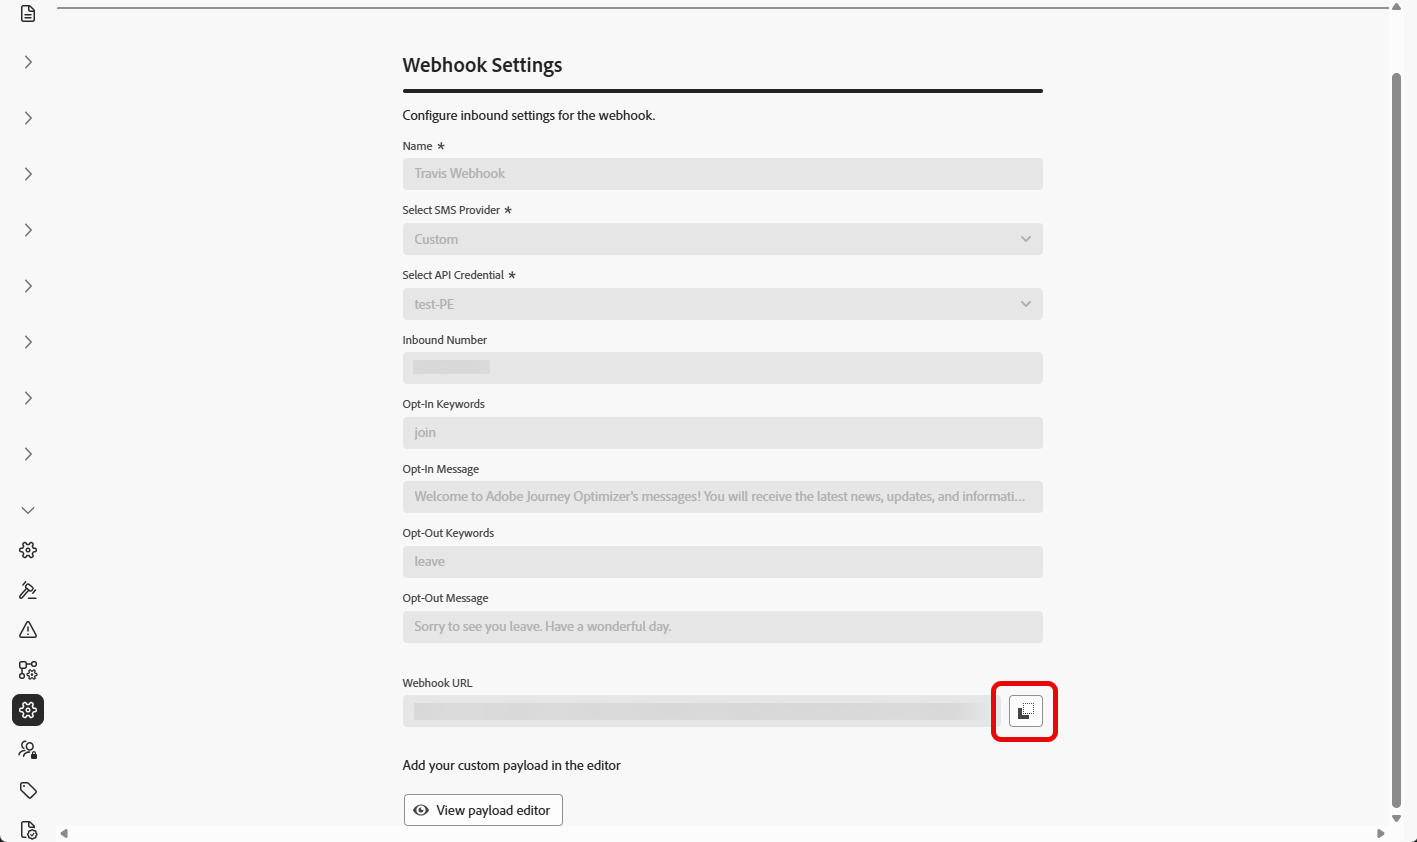
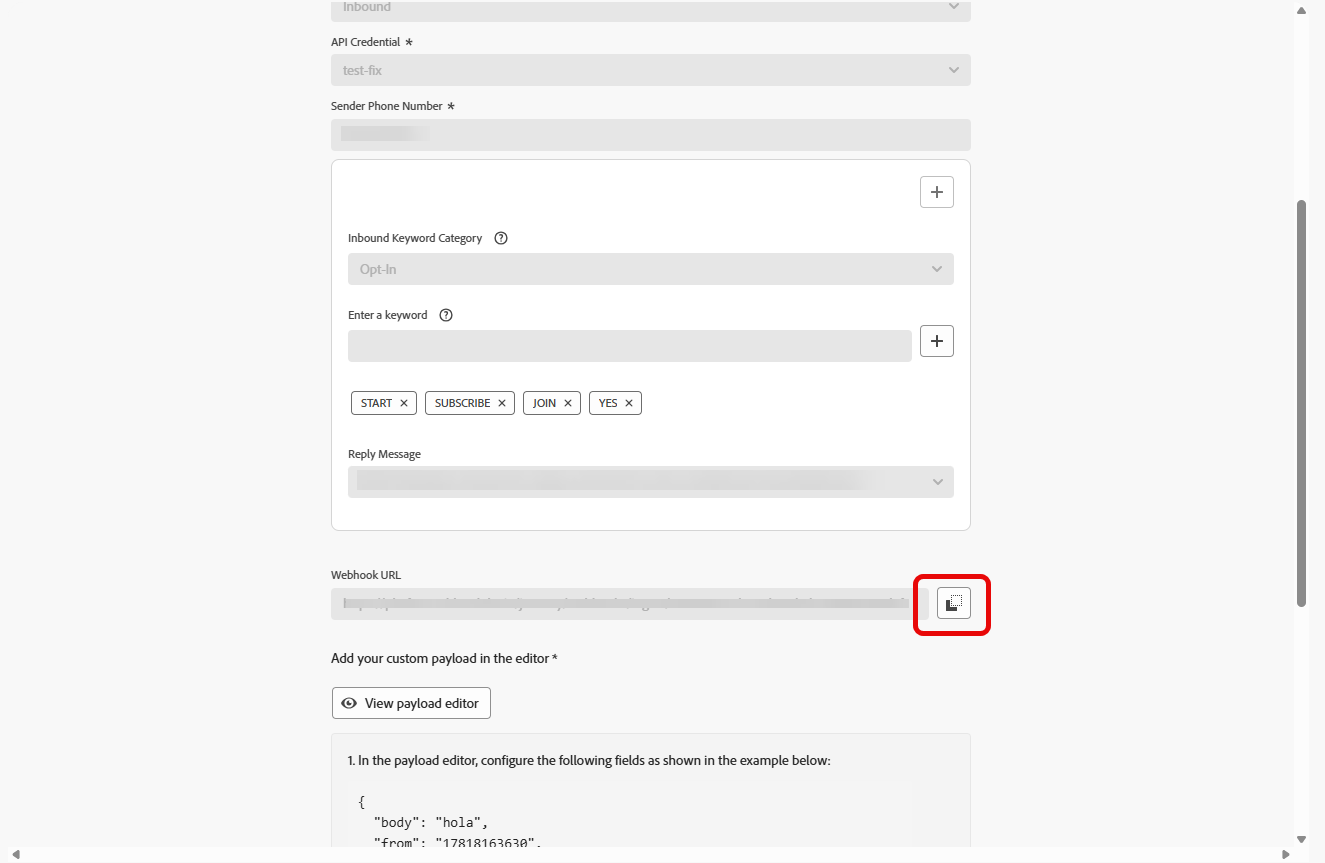
Update screens SMS webhooks

diff --git a/help/using/sms/sms-configuration-custom.md b/help/using/sms/sms-configuration-custom.md
@@ -193,17 +193,19 @@ When setting up a webhook, you can define its purpose based on the type of data 
 
     * **[!UICONTROL API credentials]**: Choose from the drop-down you [previously configured API credentials](#api-credential).
 
+    * **[!UICONTROL Sender Phone Number ]**: Enter the Sender phone number you want to use for your communications.
+        
+        ![](assets/webhook-inbound.png)
+
 1. Click ![](assets/do-not-localize/Smock_Add_18_N.svg) to add your keywords categories, then, configure them as follows:
 
     * **[!UICONTROL Inbound Keyword Category]**: Choose your keyword categories either **[!UICONTROL Opt-In]**, **[!UICONTROL Opt-Out]**, **[!UICONTROL Help]** or **[!UICONTROL Default]**.
 
-    * **[!UICONTROL Enter a keyword]**: Enter the default or custom keywords that will automatically trigger your message. For multiple keywords, use comma-separated values.
+    * **[!UICONTROL Enter a keyword]**: Enter the default or custom keywords that will automatically trigger your message. Click ![](assets/do-not-localize/Smock_Add_18_N.svg) to add multiple keywords.
 
-    * **[!UICONTROL Reply Message]**: Enter the custom response that is automatically sent.
+    * **[!UICONTROL Reply Message]**: Select from the drop-down the custom response that is automatically sent.
 
     ![](assets/sms_byo_6.png)
-
-1. Enable the **[!UICONTROL Fuzzy Opt-out]** option to detect messages resembling opt-out keywords (e.g., 'CANCIL').
 
 1. Click **[!UICONTROL View payload editor]** to validate and customize your request payloads. 
     
@@ -237,6 +239,8 @@ Once configured, you can leverage all out-of-the-box channel capabilities such a
 
     * **[!UICONTROL Type]**: Feedback.
 
+    ![](assets/webhook-feedback.png)
+
 1. Click **[!UICONTROL View payload editor]** to validate and customize your request payloads. 
     
     You can dynamically personalize your payload using profile attributes, and ensure accurate data is sent for processing and response generation with the help of built-in helper functions.
@@ -249,7 +253,7 @@ Once configured, you can leverage all out-of-the-box channel capabilities such a
 
 1. Access and copy your new **[!UICONTROL Webhook URL]** from your previously submitted **[!UICONTROL Webhook]**.
 
-    ![](assets/sms_byo_7.png)
+    ![](assets/sms_byo_8.png)
 
 After creating and configuring the inbound settings for the Webhook, you now need to create a [channel configuration](sms-configuration-surface.md) for SMS messages. 
 
